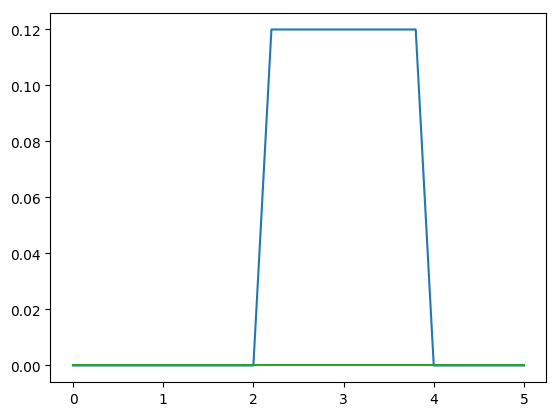
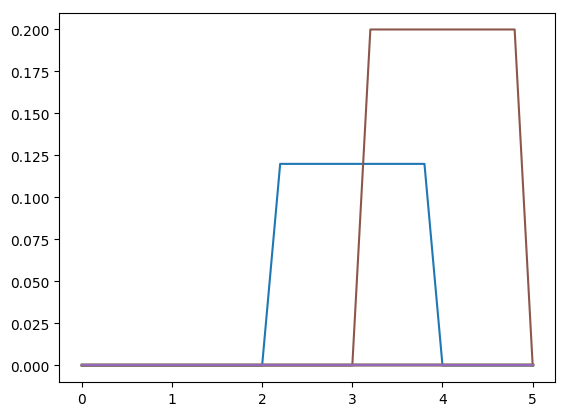
finish union graph

diff --git a/coffee_brew.py b/coffee_brew.py
@@ -1,6 +1,7 @@
 #!/usr/bin/python
 import matplotlib.pyplot as plt
 plt.rcParams.update({'figure.max_open_warning': 0})
+import numpy as np
 import rule
 
 def getInput():
@@ -22,38 +23,73 @@ def getInput():
         print("Invalid input !")    
     return amount_water, amount_coffee
 
+def  findMax(list1, list2):
+    y = []
+    if(len(list1) == len(list2)):
+        for i in range(0, len(list1)):
+            y.append(max(list1[i], list2[i]))
+    return y
+
 def main():
     amount_water, amount_coffee = getInput()
     amount_water = float(amount_water)
     amount_coffee = float(amount_coffee)
     y1 = rule.rule1(amount_water, amount_coffee)
     y2 = rule.rule2(amount_water, amount_coffee)
+    y = findMax(y1, y2)
     y3 = rule.rule3(amount_water, amount_coffee)
+    y = findMax(y, y3)
     y4 = rule.rule4(amount_water, amount_coffee)
+    y = findMax(y, y4)
     y5 = rule.rule5(amount_water, amount_coffee)
+    y = findMax(y, y5)
     y6 = rule.rule6(amount_water, amount_coffee)
+    y = findMax(y, y6)
     y7 = rule.rule7(amount_water, amount_coffee)
+    y = findMax(y, y7)
     y8 = rule.rule8(amount_water, amount_coffee)
+    y = findMax(y, y8)
     y9 = rule.rule9(amount_water, amount_coffee)
+    y = findMax(y, y9)
     y10 = rule.rule10(amount_water, amount_coffee)
+    y = findMax(y, y10)
     y11 = rule.rule11(amount_water, amount_coffee)
+    y = findMax(y, y11)
     y12 = rule.rule12(amount_water, amount_coffee)
+    y = findMax(y, y12)
     y13 = rule.rule13(amount_water, amount_coffee)
+    y = findMax(y, y13)
     y14 = rule.rule14(amount_water, amount_coffee)
+    y = findMax(y, y14) 
     y15 = rule.rule15(amount_water, amount_coffee)
+    y = findMax(y, y15)
     y16 = rule.rule16(amount_water, amount_coffee)
+    y = findMax(y, y16)
     y17 = rule.rule17(amount_water, amount_coffee)
+    y = findMax(y, y17) 
     y18 = rule.rule18(amount_water, amount_coffee)
+    y = findMax(y, y18)
     y19 = rule.rule19(amount_water, amount_coffee)
+    y = findMax(y, y19)    
     y20 = rule.rule20(amount_water, amount_coffee)
+    y = findMax(y, y20)
     y21 = rule.rule21(amount_water, amount_coffee)
+    y = findMax(y, y21)
     y22 = rule.rule22(amount_water, amount_coffee)
+    y = findMax(y, y22)
     y23 = rule.rule23(amount_water, amount_coffee)
+    y = findMax(y, y23)
     y24 = rule.rule24(amount_water, amount_coffee)
+    y = findMax(y, y24)
     y25 = rule.rule25(amount_water, amount_coffee)
+    y = findMax(y, y25)
 
-
-    
+    print("overall output (y) : ")
+    print(y)
+    x = np.arange(0, 5.2, 0.2)
+    plt.figure(26)
+    plt.plot(x, y)
+    plt.savefig('overall.png', bbox_inches='tight') 
     # plt.plot([1, 2, 3, 4], [1, 4, 9, 130])
     # plt.savefig('demo.png', bbox_inches='tight')
     # # plt.show()
